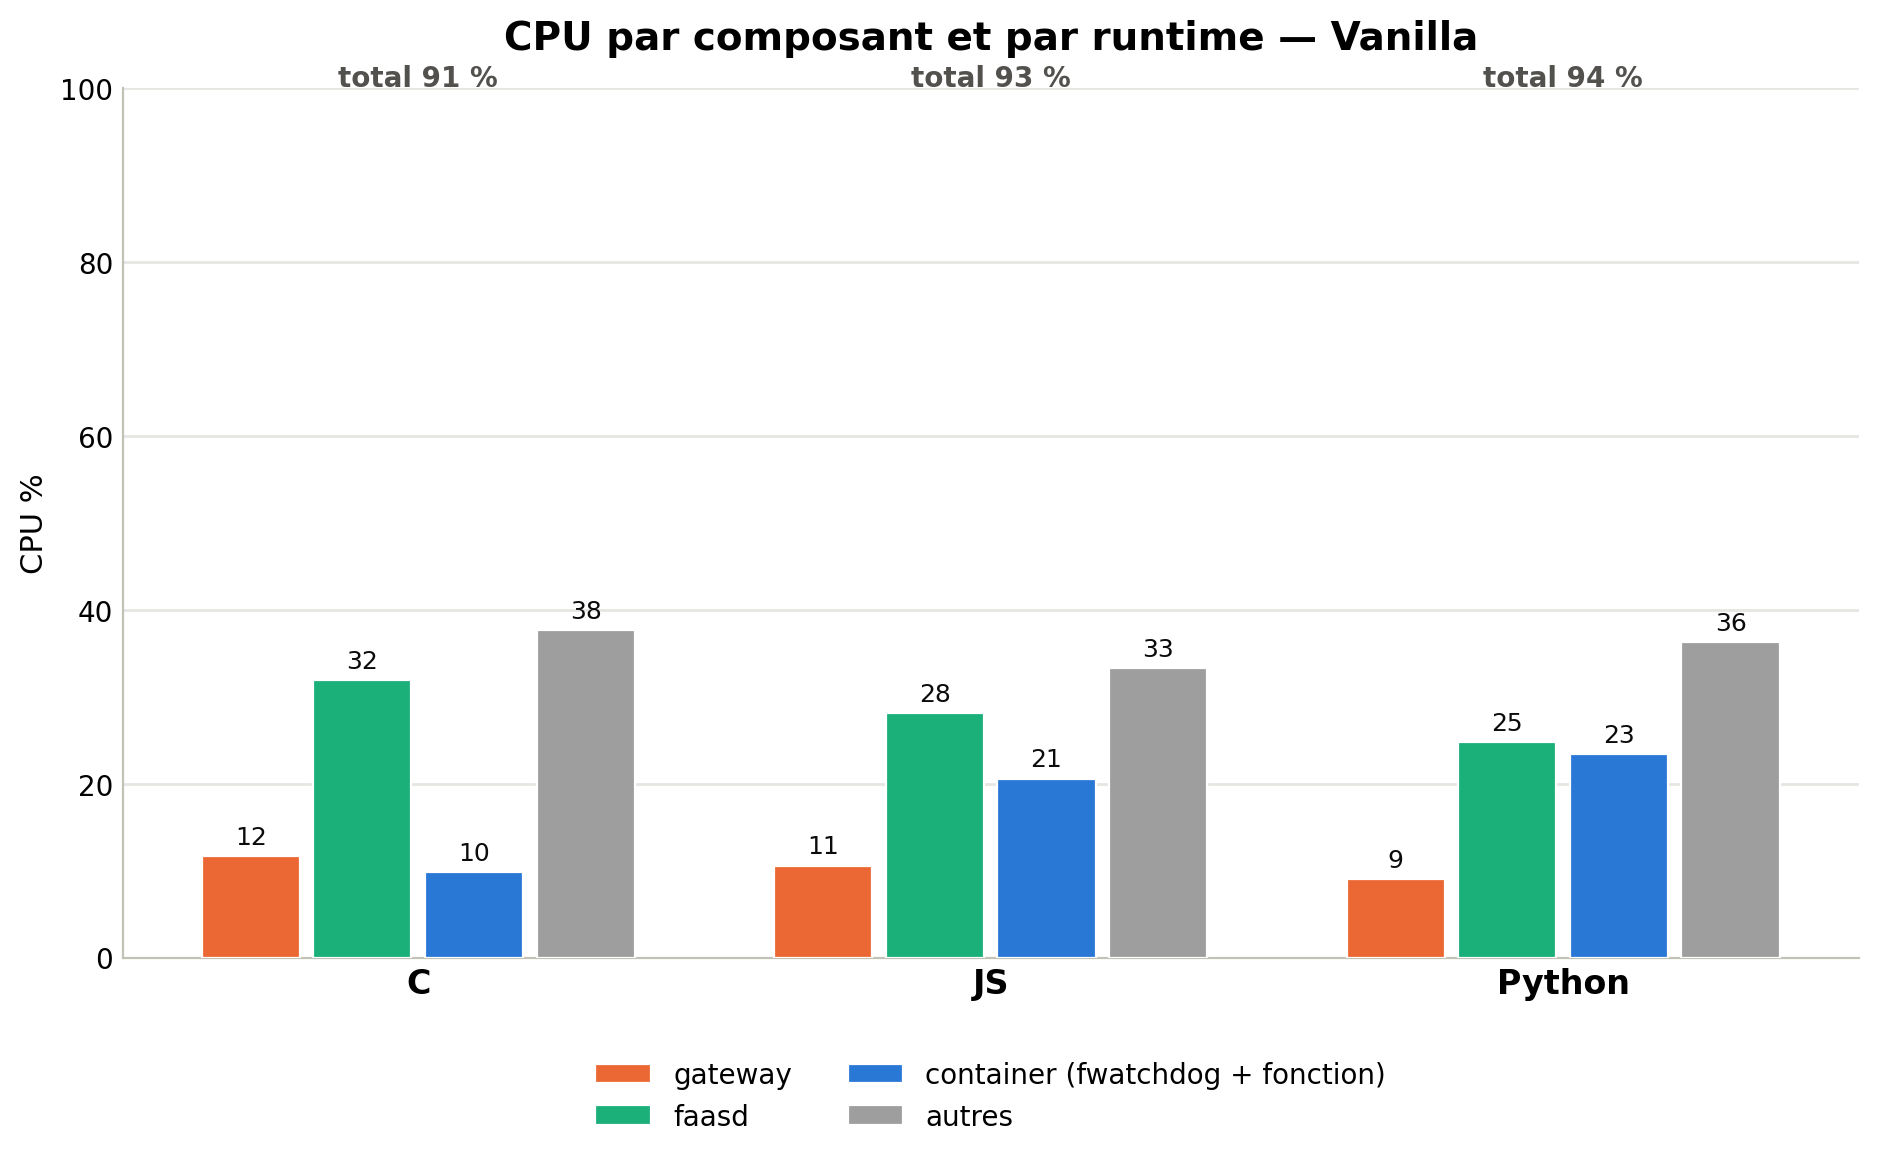
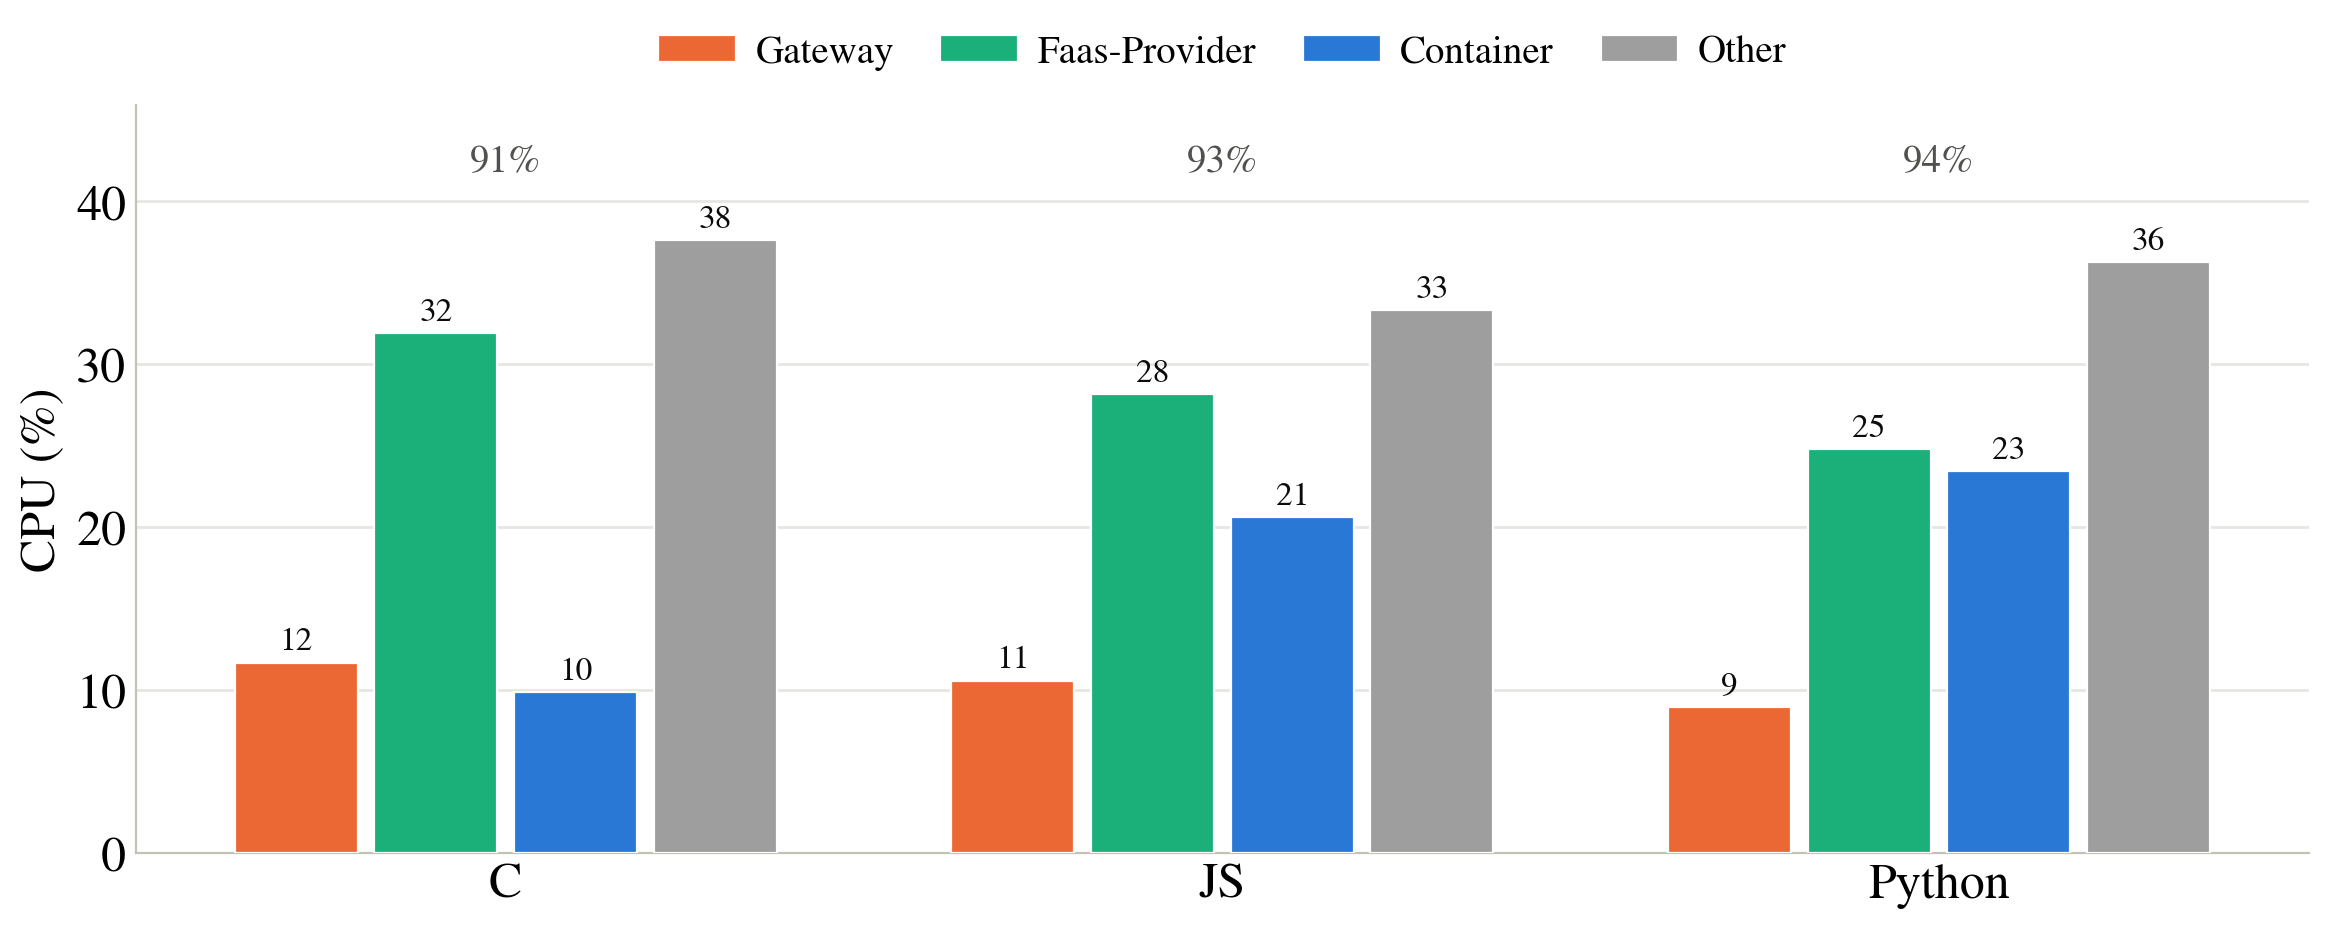
update of the csv evaluation

diff --git a/benchmarks/micro/micro-bench3-keepalive-https-integration/sebs-bench/eval/cpu_composant/plot_runtime_bars.py b/benchmarks/micro/micro-bench3-keepalive-https-integration/sebs-bench/eval/cpu_composant/plot_runtime_bars.py
@@ -32,6 +32,11 @@ except ImportError:
     print("ERREUR: matplotlib + numpy requis (pip3 install matplotlib numpy)", file=sys.stderr)
     sys.exit(1)
 
+# Article style (font + figure size).
+plt.rcParams['figure.figsize'] = 12, 5
+plt.rcParams['font.size'] = 18
+plt.rcParams['font.family'] = 'Nimbus Roman'
+
 # Composantes (ordre = ordre des barres) + couleurs validées (skill dataviz,
 # validate_palette.js) : orange / aqua / bleu / gris. L'ordre a été choisi pour
 # que chaque paire adjacente passe les gates CVD ; le gris est le bucket « Other ».
@@ -43,10 +48,10 @@ COLORS = {
     "autres":    "#9e9e9e",   # gris neutre (le reste du CPU)
 }
 LABELS = {
-    "gateway":   "gateway",
-    "faasd":     "faasd",
-    "container": "container (fwatchdog + fonction)",
-    "autres":    "autres",
+    "gateway":   "Gateway",
+    "faasd":     "FaaS Provider",
+    "container": "Container",
+    "autres":    "Others",
 }
 # Dossier runtime -> libellé affiché.
 RUNTIME_LABELS = {"sum-c": "C", "sum-js": "JS", "sum-python": "Python"}
@@ -99,7 +104,7 @@ def main() -> None:
                     help="dossiers runtime, séparés par des virgules (ordre d'affichage)")
     ap.add_argument("--min-rate", type=float, default=0.0,
                     help="ne moyenne que les débits >= min-rate (déf 0 = tous)")
-    ap.add_argument("--out", default="results/bars.png")
+    ap.add_argument("--out", default="results/bars.pdf")
     args = ap.parse_args()
 
     base = Path(args.results_dir)
@@ -117,33 +122,39 @@ def main() -> None:
         sys.exit(1)
 
     # ── figure ────────────────────────────────────────────────────────────────
-    fig, ax = plt.subplots(figsize=(2.6 + 2.3 * len(runtimes), 6.2))
+    fig, ax = plt.subplots()                           # figure size from rcParams (12, 5)
     x = np.arange(len(runtimes))
     n = len(COMPONENTS)
-    width = 0.78 / n                                   # largeur d'une barre
-    bar_w = width * 0.88                               # léger écart entre barres (spacer)
+    width = 0.78 / n                                   # width of one bar
+    bar_w = width * 0.88                               # small gap between bars (spacer)
+
+    # y-axis is scaled to the LARGEST single component value (not a fixed 0-100),
+    # so the per-component differences are easy to read.
+    ymax = max(data[rt][comp] for rt in runtimes for comp in COMPONENTS)
 
     for i, comp in enumerate(COMPONENTS):
         offs = x + (i - (n - 1) / 2.0) * width
         vals = [data[rt][comp] for rt in runtimes]
         bars = ax.bar(offs, vals, bar_w, color=COLORS[comp], label=LABELS[comp],
                       edgecolor="white", linewidth=0.8, zorder=3)
-        # Label de valeur au-dessus de chaque barre (encodage secondaire + lisibilité).
+        # Value on top of each bar.
         for b, v in zip(bars, vals):
             if v >= 0.3:
-                ax.text(b.get_x() + b.get_width() / 2, v + 0.8, f"{v:.0f}",
-                        ha="center", va="bottom", fontsize=9, color="#0b0b0b")
+                ax.text(b.get_x() + b.get_width() / 2, v + ymax * 0.01, f"{v:.0f}",
+                        ha="center", va="bottom", fontsize=12, color="#0b0b0b")
 
-    # Total (~sar) au-dessus de chaque groupe.
+    # Global CPU (~sar total) per runtime, as a clean aligned row above the bars.
+    total_y = ymax * 1.10
     for xi, rt in zip(x, runtimes):
         tot = sum(data[rt].values())
-        ax.text(xi, max(sum(data[r].values()) for r in runtimes) + 6, f"total {tot:.0f} %",
-                ha="center", va="bottom", fontsize=10, fontweight="bold", color="#52514e")
+        ax.text(xi, total_y, f"{tot:.0f}%", ha="center", va="bottom",
+                fontsize=14, color="#52514e")
 
     ax.set_xticks(x)
-    ax.set_xticklabels([RUNTIME_LABELS.get(rt, rt) for rt in runtimes], fontsize=12, fontweight="bold")
-    ax.set_ylabel("CPU %", fontsize=11)
-    ax.set_ylim(0, 100)
+    ax.set_xticklabels([RUNTIME_LABELS.get(rt, rt) for rt in runtimes])
+    ax.set_xlabel("Programming Language")
+    ax.set_ylabel("CPU (%)")
+    ax.set_ylim(0, ymax * 1.22)                        # headroom for the value + total labels
     ax.set_axisbelow(True)
     ax.grid(axis="y", color="#e6e6e2", linewidth=1, zorder=0)
     for s in ("top", "right"):
@@ -153,17 +164,23 @@ def main() -> None:
     ax.tick_params(length=0)
 
     mode_lbl = "Vanilla" if args.mode == "vanilla" else "Prototype (sendfd)"
-    suffix = "" if args.min_rate <= 0 else f"  (débits ≥ {args.min_rate:g})"
-    ax.set_title(f"CPU par composant et par runtime — {mode_lbl}{suffix}",
-                 fontsize=14, fontweight="bold", pad=14)
+    suffix = "" if args.min_rate <= 0 else f"  (rate >= {args.min_rate:g})"
+    #ax.set_title(f"CPU per component and per runtime - {mode_lbl}{suffix}", pad=34)
 
-    ax.legend(loc="upper center", bbox_to_anchor=(0.5, -0.09), ncol=2,
-              frameon=False, fontsize=10)
-    fig.tight_layout(rect=[0, 0.04, 1, 1])
+    # Legend at the TOP (above the bars), horizontal, one entry per component.
+    ax.legend(loc="lower center", bbox_to_anchor=(0.5, 1.0), ncol=len(COMPONENTS),
+              frameon=False, fontsize=14, columnspacing=1.2, handletextpad=0.5)
+    fig.tight_layout()
 
     out = Path(args.out)
     out.parent.mkdir(parents=True, exist_ok=True)
-    fig.savefig(out, dpi=200, bbox_inches="tight")
+    # Vector PDF for the article (use --out ....pdf). Requested savefig call is
+    # kept verbatim; fancybox is a legend option (not a savefig one) and raises
+    # TypeError on recent matplotlib, so we fall back without it to never fail.
+    try:
+        plt.savefig(out, pad_inches=0, bbox_inches='tight', fancybox=True)
+    except TypeError:
+        plt.savefig(out, pad_inches=0, bbox_inches='tight')
     plt.close(fig)
     print(f"[ok] barres → {out}")
 
